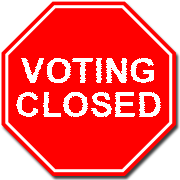
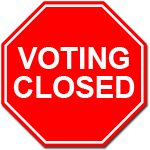
resizes 'voting closed' image and its panel

Changed region(s): [[0.0, 0.0, 1.0, 1.0], [0.1067, 0.2933, 0.88, 0.48], [0.08, 0.5067, 0.9067, 0.6667]]

diff --git a/PlanningPoker/src/edu/wpi/cs/wpisuitetng/modules/planningpoker/view/voting/VotingPanel.java b/PlanningPoker/src/edu/wpi/cs/wpisuitetng/modules/planningpoker/view/voting/VotingPanel.java
@@ -140,8 +140,8 @@ public class VotingPanel extends JPanel {
         final URL url = getClass().getResource("complete.png");
         final ImageIcon imageicon = new ImageIcon(url);
         label = new JLabel(imageicon);
-        panel.setPreferredSize(new Dimension(270, 200));
-        panel.setMinimumSize(new Dimension(180, 200));
+        panel.setPreferredSize(new Dimension(180, 180));
+        panel.setMinimumSize(new Dimension(180, 180));
         panel.add(label);
         label.setVisible(false);
         c.gridx = 1;
